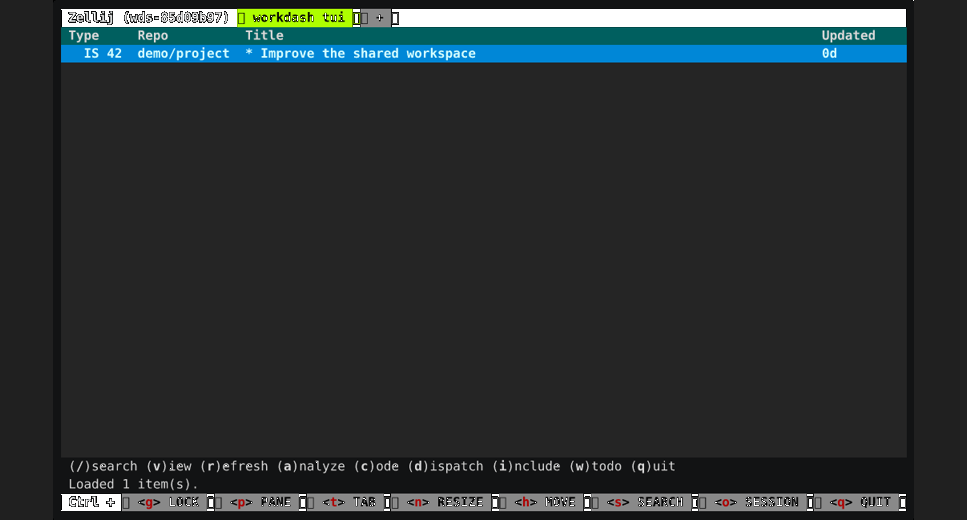
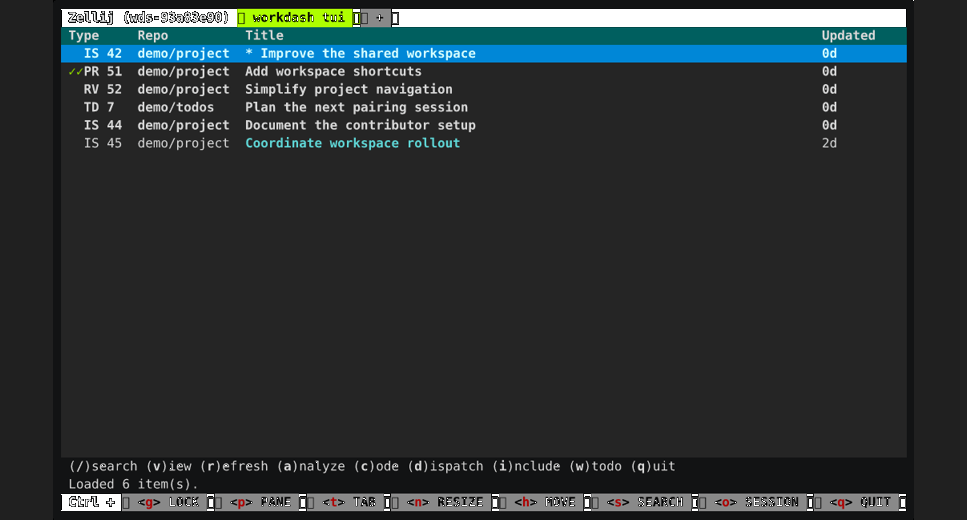
Correct site claims and show the full dashboard legend

Changed region(s): [[0.062, 0.1231, 0.4964, 0.3077], [0.8376, 0.1231, 0.8687, 0.2769], [0.1551, 0.0, 0.2172, 0.0615]]

diff --git a/site/agentic.html b/site/agentic.html
@@ -96,8 +96,9 @@
             You pick up an issue only when it has no open children, descendants or blockers.
           </li>
           <li>
-            <strong>Leave active work alone.</strong>
-            You skip an issue while a live agent pane holds its worktree.
+            <strong>Skip active work when picking ready issues.</strong>
+            Ready-work selection skips issues an agent is already working on.
+            Starting a session on an exact issue can interrupt the agent already working on it.
           </li>
           <li>
             <strong>Continue a pull request that needs work.</strong>

diff --git a/site/review.html b/site/review.html
@@ -97,7 +97,7 @@
             <ul class="benefit-list">
               <li>
                 <strong>Start with the discussion.</strong>
-                Use <span class="kbd">a</span> on a PR for an analysis of its description, reviews, and unresolved threads.
+                Use <span class="kbd">a</span> on a PR for an analysis of its description, comments, and reviews.
               </li>
               <li>
                 <strong>Choose your agent.</strong>

diff --git a/tests/bdd/steps/site.py b/tests/bdd/steps/site.py
@@ -2,6 +2,7 @@ import importlib
 import json
 import os
 import re
+import shlex
 import shutil
 import subprocess
 import sys
@@ -136,21 +137,27 @@ def check_site_check(site_check):
 def test_capture_github_stub_rejects_unknown_calls(tmp_path):
     gh = Path(__file__).resolve().parents[3] / "site/capture/gh"
     env = {**os.environ, "HOME": str(tmp_path)}
-    response = subprocess.run(
-        [sys.executable, str(gh), "api", "graphql", "-f", "query={ tracked: search }"],
-        env=env,
-        capture_output=True,
-        text=True,
-        check=True,
-    )
-    items = json.loads(response.stdout)["data"]["tracked"]["nodes"]
-    assert items[0]["title"] == "Improve the shared workspace"
-    for args in (["api", "unsupported"], ["search", "prs", "--author", "someone-else"]):
+    for args in (
+        ["api", "unsupported"],
+        ["search", "prs", "--author", "someone-else"],
+        [
+            "api",
+            "graphql",
+            "-f",
+            'query={ repository(owner: "other", name: "project") { issueOrPullRequest(number: 42) { title } } }',
+        ],
+        [
+            "api",
+            "graphql",
+            "-f",
+            'query={ p0: repository(owner: "demo", name: "project") { pullRequest(number: 999) { reviewDecision } } }',
+        ],
+    ):
         unknown = subprocess.run(
             [sys.executable, str(gh), *args], env=env, capture_output=True, text=True
         )
         assert unknown.returncode != 0
-        assert " ".join(args) in unknown.stderr
+        assert shlex.join(args) in unknown.stderr
 
 
 @pytest.mark.parametrize("image", ["dashboard.gif", "og-card.png"])
@@ -185,6 +192,7 @@ def test_capture_preserves_failure_when_configuration_changes(tmp_path, monkeypa
         MagicMock(side_effect=ValueError("capture failed") if capture_fails else None),
     )
     monkeypatch.setattr(generate, "render", MagicMock())
+    monkeypatch.setattr(generate, "validate_capture", MagicMock(), raising=False)
     error = ValueError if capture_fails else RuntimeError
     message = "capture failed" if capture_fails else "Real workdash configuration changed"
     with pytest.raises(error, match=message):
@@ -283,3 +291,75 @@ def check_local_links(published_pages):
                     target in published_pages
                     and unquote(url.fragment) in published_pages[target].ids
                 ), f"{page.name}: {link}"
+
+
+def test_capture_world_dashboard_legend(tmp_path, monkeypatch):
+    from datetime import UTC, datetime
+
+    from workdash.backend import WorkdashBackend
+    from workdash.config import WorkdashConfig
+    from workdash.included_items import IncludedItemsStore
+    from workdash.models import WorkItemKind, ci_status_symbol
+
+    source = Path(__file__).resolve().parents[3] / "site/capture"
+    for name in ("gh", "fixtures.json"):
+        shutil.copy2(source / name, tmp_path / name)
+    monkeypatch.setenv("HOME", str(tmp_path))
+    monkeypatch.setenv("PATH", f"{tmp_path}:{os.environ['PATH']}")
+    backend = WorkdashBackend(
+        config=WorkdashConfig(
+            github_username="demo", repositories=("demo/project",), todo_repository="demo/todos"
+        ),
+        cache_root=tmp_path / "cache",
+        included_items_store=IncludedItemsStore(tmp_path / "included.json"),
+    )
+    items, _ = backend.load_items()
+    assert len(items) == 6
+    assert max(items, key=lambda item: item.updated_at).number == 42
+    authored = next(item for item in items if item.kind == WorkItemKind.AUTHORED_PR)
+    assert ci_status_symbol(authored.ci_state, authored.review_decision, False) == (
+        ("✓", "green"),
+        ("✓", "green"),
+    )
+    assert any(item.kind == WorkItemKind.REVIEW_REQUESTED_PR for item in items)
+    assert any(item.repo == "demo/todos" for item in items)
+    assert any(item.kind == WorkItemKind.ASSIGNED_ISSUE for item in items)
+    assert any(item.has_sub_issues and item.sub_issue_total == 2 for item in items)
+    assert all(
+        0 <= (datetime.now(UTC) - item.updated_at).total_seconds() < 7 * 86400 for item in items
+    )
+    again, _ = backend.load_items()
+    assert [item.updated_at for item in again] == [item.updated_at for item in items]
+    assert not (tmp_path / "gh-errors.log").exists()
+
+
+@pytest.mark.parametrize(
+    ("shot", "text", "missing"),
+    [
+        ("dashboard", "PR 51 ✓✓ RV 52 TD 7 IS 42", "Coordinate workspace rollout"),
+        (
+            "dashboard",
+            "✓✓PR 51 RV 52 TD 7 IS 44 IS 42 Coordinate workspace rollout",
+            "native sub-issue title highlight",
+        ),
+        ("analyze-dialog", "(1) Analyze with demo", "(a) Open analysis"),
+        ("viewer", "Loaded 6 item(s).", "Make it easier to pick up work together."),
+    ],
+)
+def test_capture_rejects_missing_claimed_content(tmp_path, monkeypatch, shot, text, missing):
+    source = Path(__file__).resolve().parents[3] / "site"
+    monkeypatch.syspath_prepend(str(source))
+    generate = importlib.import_module("generate")
+    (tmp_path / "agg-1.5.0").touch()
+    monkeypatch.setattr(sys, "argv", ["generate.py", shot, "--work", str(tmp_path)])
+    monkeypatch.setattr(generate, "build", MagicMock(return_value={}))
+
+    def capture(env, size, steps, output):
+        output.write_text(json.dumps({"version": 2}) + "\n" + json.dumps([0, "o", text]) + "\n")
+
+    monkeypatch.setattr(generate, "capture", capture)
+    renderer = MagicMock()
+    monkeypatch.setattr(generate, "render", renderer)
+    with pytest.raises(RuntimeError, match=f"{shot}.*{re.escape(missing)}"):
+        generate.main()
+    renderer.assert_not_called()

diff --git a/site/generate.py b/site/generate.py
@@ -3,7 +3,9 @@
 
 import argparse
 import hashlib
+import json
 import os
+import re
 import shutil
 import sys
 import tempfile
@@ -73,6 +75,7 @@ def main():
             gh_errors = work / name / "home/gh-errors.log"
             if gh_errors.exists():
                 raise RuntimeError(f"Unsupported gh calls:\n{gh_errors.read_text()}")
+            validate_capture(name, cast)
             output = site / "img" / f"{name}.gif"
             card = site / "img/og-card.png" if name == "dashboard" else None
             render(work / name / "venv/bin/python", renderer, cast, output, animated, card)
@@ -87,6 +90,43 @@ def main():
         if sys.exception() is None and config_snapshot() != real_config:
             raise RuntimeError("Real workdash configuration changed during capture")
     return report(site)
+
+
+def validate_capture(name, cast):
+    """Refuse images whose terminal output does not demonstrate the site's claims."""
+    raw = "".join(
+        event[2]
+        for line in cast.read_text().splitlines()[1:]
+        if (event := json.loads(line))[1] == "o"
+    )
+    text = re.sub(
+        r"\x1b(?:\][^\x1b\x07]*(?:\x07|\x1b\\)|P[^\x1b]*\x1b\\|\[[0-?]*[ -/]*[@-~]|[()][A-Z0-9]|[=>])",
+        "",
+        raw,
+    )
+    markers = {
+        "dashboard": (
+            "PR 51",
+            "RV 52",
+            "TD 7",
+            "IS 44",
+            "IS 42",
+            "Coordinate workspace rollout",
+            "✓✓PR 51",
+        ),
+        "dashboard-progress": ("demo/project#42", "developing (implement)"),
+        "analyze-dialog": ("(a) Open analysis", "(1) Analyze with demo"),
+        "viewer": ("Make it easier to pick up work together.", "Comments (0)"),
+        "agent-session": ("code_demo_project_42", "Ready to work together."),
+        "branchdiff": ("README.md (+2, -0)", "Coordinate work and share progress."),
+        "code-menu": ("Code menu:", "(1) demo", "(d) branchdiff", "(r) auto review"),
+        "loop": ("[automerge]", "developing (implement)", "reviewing", "(closed)"),
+    }
+    missing = [marker for marker in markers[name] if marker not in text]
+    if name == "dashboard" and "\x1b[38;5;80m\x1b[1mCoordinate workspace rollout" not in raw:
+        missing.append("native sub-issue title highlight")
+    if missing:
+        raise RuntimeError(f"{name}: capture missing expected content: {', '.join(missing)}")
 
 
 class Page(HTMLParser):

diff --git a/site/capture/world.py b/site/capture/world.py
@@ -99,6 +99,20 @@ def build(root: Path, work: Path):
         check=True,
     )
     env["PATH"] = f"{bin_dir}:{work / 'venv/bin'}:/usr/bin:/bin"
+    subprocess.run(
+        [
+            str(work / "venv/bin/python"),
+            "-c",
+            "from pathlib import Path\n"
+            "from workdash.analysis_cache import AnalysisCache\n"
+            "from workdash.github_client import GitHubClient\n"
+            "item = GitHubClient().fetch_item('demo/project', 42, github_username='demo', todo_repository='demo/todos')\n"
+            "AnalysisCache(Path.home() / '.config/workdash/cache').save(item, "
+            "'# Shared workspace analysis\\n\\nImprove the handoff notes and verify the contributor workflow.\\n')\n",
+        ],
+        env=env,
+        check=True,
+    )
     with socket.socket() as sock:
         sock.bind(("127.0.0.1", 0))
         env["WORKDASH_HOST"] = f"127.0.0.1:{sock.getsockname()[1]}"

diff --git a/site/capture/shots.py b/site/capture/shots.py
@@ -21,19 +21,19 @@ SHOTS = {
     "viewer": (
         "work.html",
         (110, 28),
-        [("wait", 15), ("keys", "v"), ("wait", 2), ("keys", "v"), ("wait", 5)],
+        [("wait", 15), ("keys", "v"), ("wait", 2), ("keys", "v"), ("hold", 5)],
         False,
     ),
     "agent-session": (
         "work.html",
         (110, 28),
-        [("wait", 15), ("keys", "c"), ("wait", 2), ("keys", "1"), ("wait", 8)],
+        [("wait", 15), ("keys", "c"), ("wait", 2), ("keys", "1"), ("hold", 8)],
         False,
     ),
     "branchdiff": (
         "review.html",
         (110, 28),
-        [("wait", 15), ("keys", "c"), ("wait", 2), ("keys", "d"), ("wait", 8)],
+        [("wait", 15), ("keys", "c"), ("wait", 2), ("keys", "d"), ("hold", 8)],
         False,
     ),
     "code-menu": ("work.html", (110, 28), [("wait", 15), ("keys", "c"), ("wait", 3)], False),
